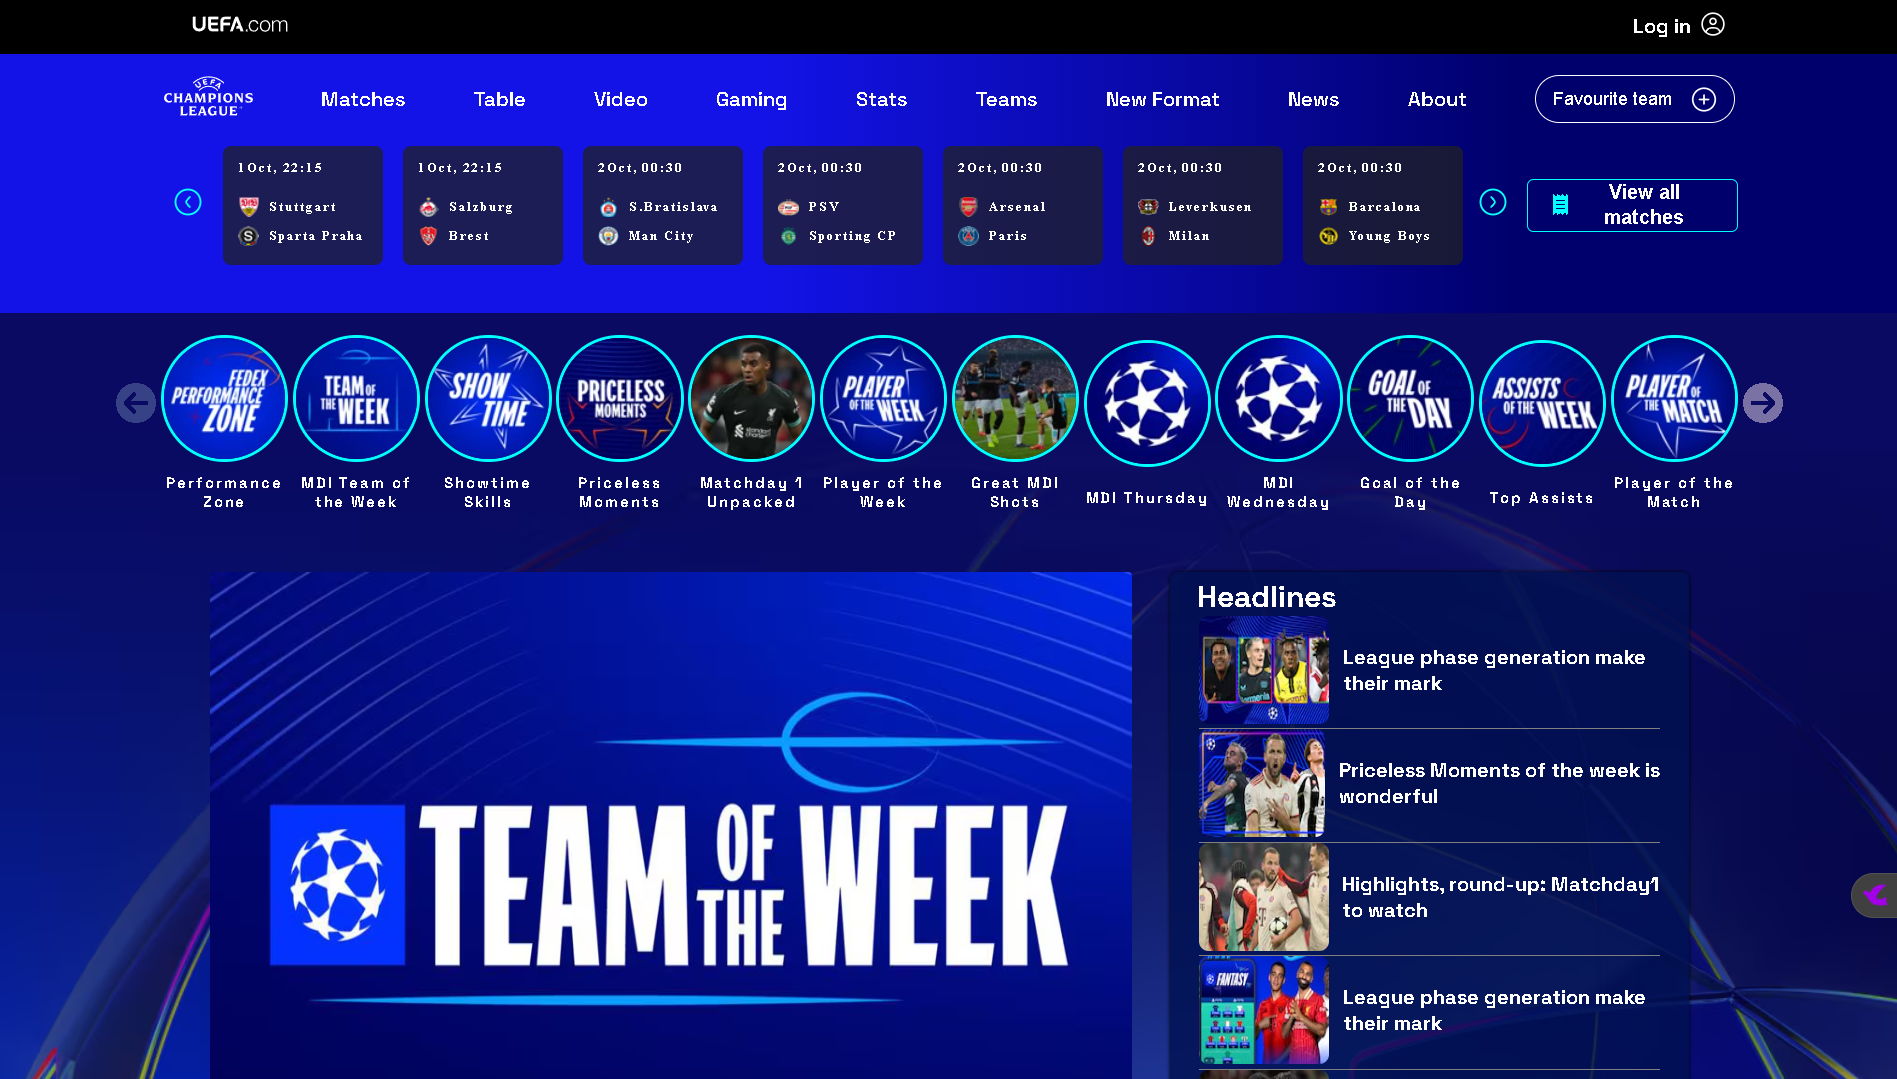
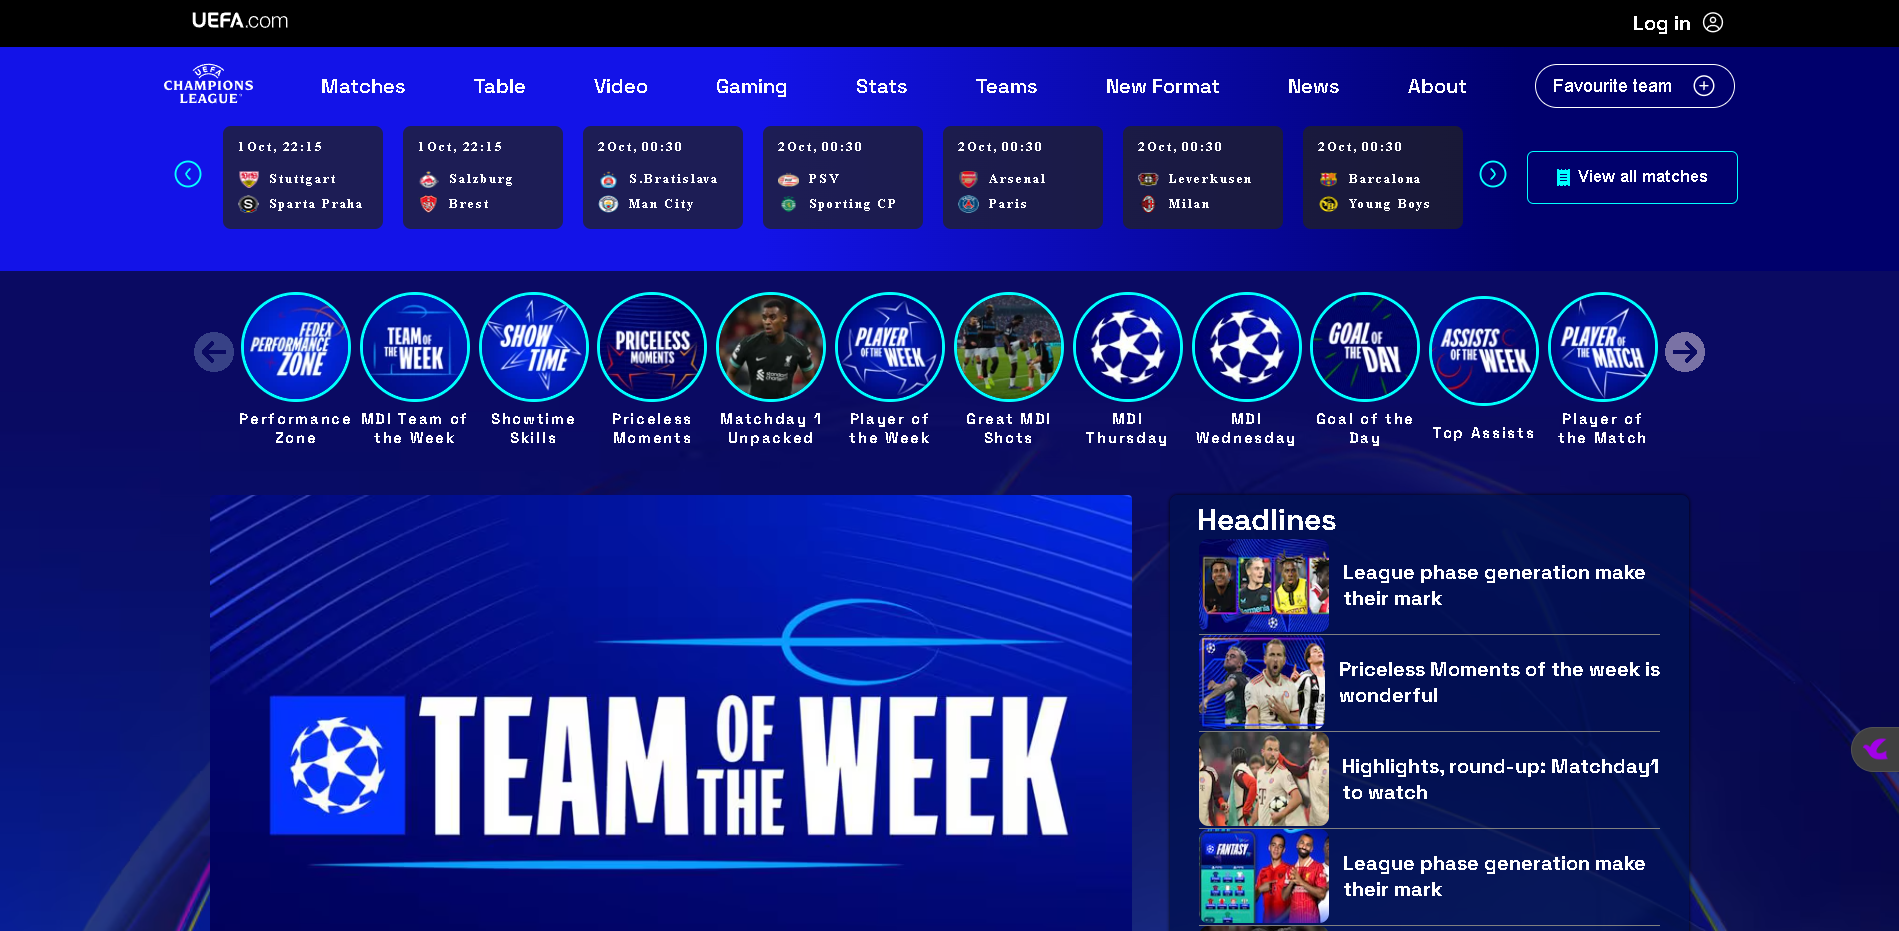
Project README file added.

diff --git a/Project UEFA/Dinesh - News (Section)/style.css b/Project UEFA/Dinesh - News (Section)/style.css
@@ -11,24 +11,30 @@ body {
     /* margin: auto; */
 }
 
-
+a {
+    color: white;
+    text-decoration: none;
+}
 
 #sub-header {
     width: 100%;
-    height: 21vh; 
-    background: linear-gradient(to right, rgb(19, 19, 232) 40%, rgb(0, 0, 108) 80%); 
+    height: 9.7vh;
+    z-index: 2;
+    background: linear-gradient(to right, rgb(19, 19, 232) 40%, rgb(0, 0, 108) 80%);
+    position: sticky;
+    top: 0;
 }
 
 /* Top Menu */
 .top-menu {
-    padding: 0 5%; 
-    background: linear-gradient(to right, rgb(19, 19, 232) 40%, rgb(0, 0, 108) 80%); 
+    padding: 0 5%;
+    background: linear-gradient(to right, rgb(19, 19, 232) 40%, rgb(0, 0, 108) 80%);
     width: 100%;
-    height: 7vh; 
+    height: 7vh;
     display: flex;
     justify-content: space-between;
     align-items: center;
-    flex-wrap: wrap; 
+    flex-wrap: wrap;
 }
 
 /* Menu Items */
@@ -45,7 +51,8 @@ body {
     padding: 0.8rem;
     color: white;
 }
-.top-menu ul li a{
+
+.top-menu ul li a {
     color: white;
     text-decoration: none;
 }
@@ -59,11 +66,11 @@ body {
 
 /* Logo Images */
 .top-menu ul li img {
-    width: 8vw; 
-    max-width: 6rem; 
-    min-width: 3rem; 
-    height: auto; 
-    display: block; 
+    width: 8vw;
+    max-width: 6rem;
+    min-width: 3rem;
+    height: auto;
+    display: block;
 }
 
 /* Favourite Button */
@@ -106,6 +113,10 @@ body {
 
 /* Very Small Screens (129px and up) */
 @media (max-width: 320px) {
+    #sub-header {
+        height: 21vh;
+    }
+
     .top-menu ul {
         flex-direction: column;
         justify-content: center;
@@ -113,7 +124,7 @@ body {
     }
 
     .top-menu ul li img {
-        width: 30vw; 
+        width: 30vw;
     }
 
     .favourite {
@@ -121,13 +132,17 @@ body {
     }
 
     .favourite svg {
-        width: 1rem; 
+        width: 1rem;
         height: 1rem;
     }
 }
 
 /* Mobile Screens (up to 480px) */
 @media (max-width: 480px) {
+    #sub-header {
+        height: 21vh;
+    }
+
     .top-menu ul {
         flex-direction: row;
         flex-wrap: wrap;
@@ -135,7 +150,7 @@ body {
     }
 
     .top-menu ul li img {
-        width: 25vw; 
+        width: 25vw;
     }
 
     .favourite {
@@ -151,12 +166,16 @@ body {
 
 /* Mid Screens (up to 768px) */
 @media (max-width: 768px) {
+    #sub-header {
+        height: 18vh;
+    }
+
     .top-menu {
         padding: 0 3vw;
     }
 
     .top-menu ul li img {
-        width: 15vw; 
+        width: 15vw;
     }
 
     .favourite {
@@ -172,9 +191,12 @@ body {
 
 /* Larger Screens (769px and up) */
 @media (min-width: 769px) {
+    #sub-header {
+        height: 12vh;
+    }
     .top-menu ul {
         flex-direction: row;
-        justify-content: space-evenly; 
+        justify-content: space-evenly;
     }
 
     .top-menu ul li img {

diff --git a/Project UEFA/Taha - New format (Section)/index.html b/Project UEFA/Taha - New format (Section)/index.html
@@ -16,8 +16,7 @@
   <!-- <div><a href="#" class="logo1">UEFA.Com</a></div>
     <div><a href="#" class="logo2 style="color: white; text-decoration: none">Log in 👤</a></div> -->
   <header class="header">
-    <a href="../Ayush - Home (Section)/index.html"><img src="../Ayush - Home (Section)/Assits/images/uefaCLogo.svg"
-        alt="UEFA Champions League logo" class="logo" /></a>
+
     <!-- <nav class="nav">
         <a href="#">Matches</a>
         <a href="#">Table</a>
@@ -35,8 +34,10 @@
         <a href="#">More ▼</a>
         <a href="#" class="favourite-team-btn">Favourite team ⊕</a>
       </nav> -->
-    <nav>
+    <nav class="navbar">
       <ul class="menu">
+        <a href="../Ayush - Home (Section)/index.html"><img src="../Ayush - Home (Section)/Assits/images/uefaCLogo.svg"
+            alt="UEFA Champions League logo" class="logo" /></a>
         <li class="menu-item1">
           <a href="../Adarsh - Matches (Section)/index.html">Matches</a>
         </li>
@@ -82,7 +83,7 @@
           <!-- Add dropdown items for Stats if needed -->
 
           </div>
-        <li class="menu-item1">
+        <li class="menu-item1 high-menu">
           <a href="../Taha - New format (Section)/index.html">New Format</a>
           <!-- Add dropdown items for Stats if needed -->
 

diff --git a/Project UEFA/Taha - New format (Section)/style.css b/Project UEFA/Taha - New format (Section)/style.css
@@ -12,12 +12,16 @@ body {
 }
 
 .header {
+  width: 100%;
+  height: 10vh;
   background-color: #0000aa;
-  padding-right: 20px;
+  /* padding-right: 20px; */
   display: flex;
-  justify-content: space-between;
+  justify-content: center;
   align-items: center;
   flex-wrap: wrap;
+  position: sticky;
+  top: 0;
 }
 
 .dropdown {
@@ -47,13 +51,18 @@ body {
   height: auto;
 }
 
-.nav {
+.navbar {
+  width: 100%;
   display: flex;
-  gap: 50px;
   flex-wrap: wrap;
+  justify-content: space-around;
   align-items: center;
   font-family: Arial, Helvetica, sans-serif;
   font-size: x-large;
+
+  ul {
+    gap: 2.3vw;
+  }
 }
 
 a {
@@ -196,7 +205,7 @@ p {
     width: 280px;
     overflow: hidden;
     border-radius: 2.2vw;
-    
+
   }
 }
 
@@ -374,6 +383,16 @@ nav {
   margin-right: 20px;
 }
 
+.high-menu>a {
+  background: #00ffff;
+  border-radius: 2vw;
+  color: #000;
+
+  &:hover {
+    background: aqua;
+    color: #000;
+  }
+}
 
 
 /* footer : section */

diff --git a/Project UEFA/Taha - Game (Section)/style.css b/Project UEFA/Taha - Game (Section)/style.css
@@ -19,6 +19,8 @@ body {
   justify-content: space-evenly;
   align-items: center;
   flex-wrap: wrap;
+  position: sticky;
+  top: 0;
 }
 
 .dropdown {

diff --git a/README.md b/README.md
@@ -117,7 +117,82 @@ Follow these simple steps to set up the UEFA Championship League Website Clone o
     🔥 https://uefachampionshipleague7.netlify.app/  🔥
 
     🔥Screenshots    
-    🟢Home Page :
+    
+🟢UEFA.com Page:
+![UEFAcom Page - 1](./Project-Screenshots/UEFAcom-page/u1.png)
+![UEFAcom Page - 2](./Project-Screenshots/UEFAcom-page/u2.png)
 
-![Home Page](./Project-Screenshots/Home-page/h1.png)
-![Home Page.2](./Project-Screenshots/Home-page/h2.png)
+🟢Login Page:
+![Login Page - 1](./Project-Screenshots/Login-page/login_page.png)
+
+🟢Home Page:
+![Home Page - 1](./Project-Screenshots/Home-page/h1.png)
+![Home Page - 2](./Project-Screenshots/Home-page/h2.png)
+![Home Page - 3](./Project-Screenshots/Home-page/h3.png)
+![Home Page - 4](./Project-Screenshots/Home-page/h4.png)
+![Home Page - 5](./Project-Screenshots/Home-page/h5.png)
+![Home Page - 6](./Project-Screenshots/Home-page/h6.png)
+![Home Page - 7](./Project-Screenshots/Home-page/h7.png)
+![Home Page - 8](./Project-Screenshots/Home-page/h8.png)
+![Home Page - 9](./Project-Screenshots/Home-page/h9.png)
+![Home Page - 10](./Project-Screenshots/Home-page/h10.png)
+
+🟢Matches Page:
+![Matches Page - 1](./Project-Screenshots/Matches-page/m1.png)
+![Matches Page - 2](./Project-Screenshots/Matches-page/m2.png)
+![Matches Page - 3](./Project-Screenshots/Matches-page/m3.png)
+![Matches Page - 4](./Project-Screenshots/Matches-page/m4.png)
+
+🟢Table Page:
+![Table Page - 1](./Project-Screenshots/Table-page/tb1.png)
+![Table Page - 2](./Project-Screenshots/Table-page/tb2.png)
+![Table Page - 3](./Project-Screenshots/Table-page/tb3.png)
+
+🟢Video Page:
+![Video Page - 1](./Project-Screenshots/Video-page/v1.png)
+![Video Page - 2](./Project-Screenshots/Video-page/v2.png)
+![Video Page - 3](./Project-Screenshots/Video-page/v3.png)
+
+🟢Gaming Page:
+![Gaming Page - 1](./Project-Screenshots/Gaming-page/g1.png)
+![Gaming Page - 2](./Project-Screenshots/Gaming-page/g2.png)
+![Gaming Page - 3](./Project-Screenshots/Gaming-page/g3.png)
+
+🟢Statistic Page:
+![Statistics Page - 1](./Project-Screenshots/Statistics-page/st1.png)
+![Statistics Page - 2](./Project-Screenshots/Statistics-page/st2.png)
+![Statistics Page - 3](./Project-Screenshots/Statistics-page/st3.png)
+![Statistics Page - 4](./Project-Screenshots/Statistics-page/st4.png)
+![Statistics Page - 5](./Project-Screenshots/Statistics-page/st5.png)
+![Statistics Page - 6](./Project-Screenshots/Statistics-page/st6.png)
+
+🟢Team Page:
+![Team Page - 1](./Project-Screenshots/Teams-page/tm1.png)
+![Team Page - 2](./Project-Screenshots/Teams-page/tm3.png)
+![Team Page - 3](./Project-Screenshots/Teams-page/tm2.png)
+![Team Page - 4](./Project-Screenshots/Teams-page/tm4.png)
+
+🟢New Format Page:
+![New Format - 1](./Project-Screenshots/New_Format-page/NF1.png)
+![New Format - 2](./Project-Screenshots/New_Format-page/NF2.png)
+![New Format - 3](./Project-Screenshots/New_Format-page/NF3.png)
+
+🟢News Page:
+![News Page - 1](./Project-Screenshots/News-page/nw1.png)
+![News Page - 2](./Project-Screenshots/News-page/nw2.png)
+![News Page - 3](./Project-Screenshots/News-page/nw3.png)
+![News Page - 4](./Project-Screenshots/News-page/nw4.png)
+![News Page - 5](./Project-Screenshots/News-page/nw5.png)
+
+🟢About Page:
+![About Page - 1](./Project-Screenshots/About-page/ab1.png)
+![About Page - 2](./Project-Screenshots/About-page/ab2.png)
+![About Page - 3](./Project-Screenshots/About-page/ab3.png)
+![About Page - 4](./Project-Screenshots/About-page/ab4.png)
+
+🟢Favourite Page:
+![Favourite Page - 1](./Project-Screenshots/favourite-page/f1.png)
+![Favourite Page - 2](./Project-Screenshots/favourite-page/f2.png)
+![Favourite Page - 3](./Project-Screenshots/favourite-page/f3.png)
+
+
